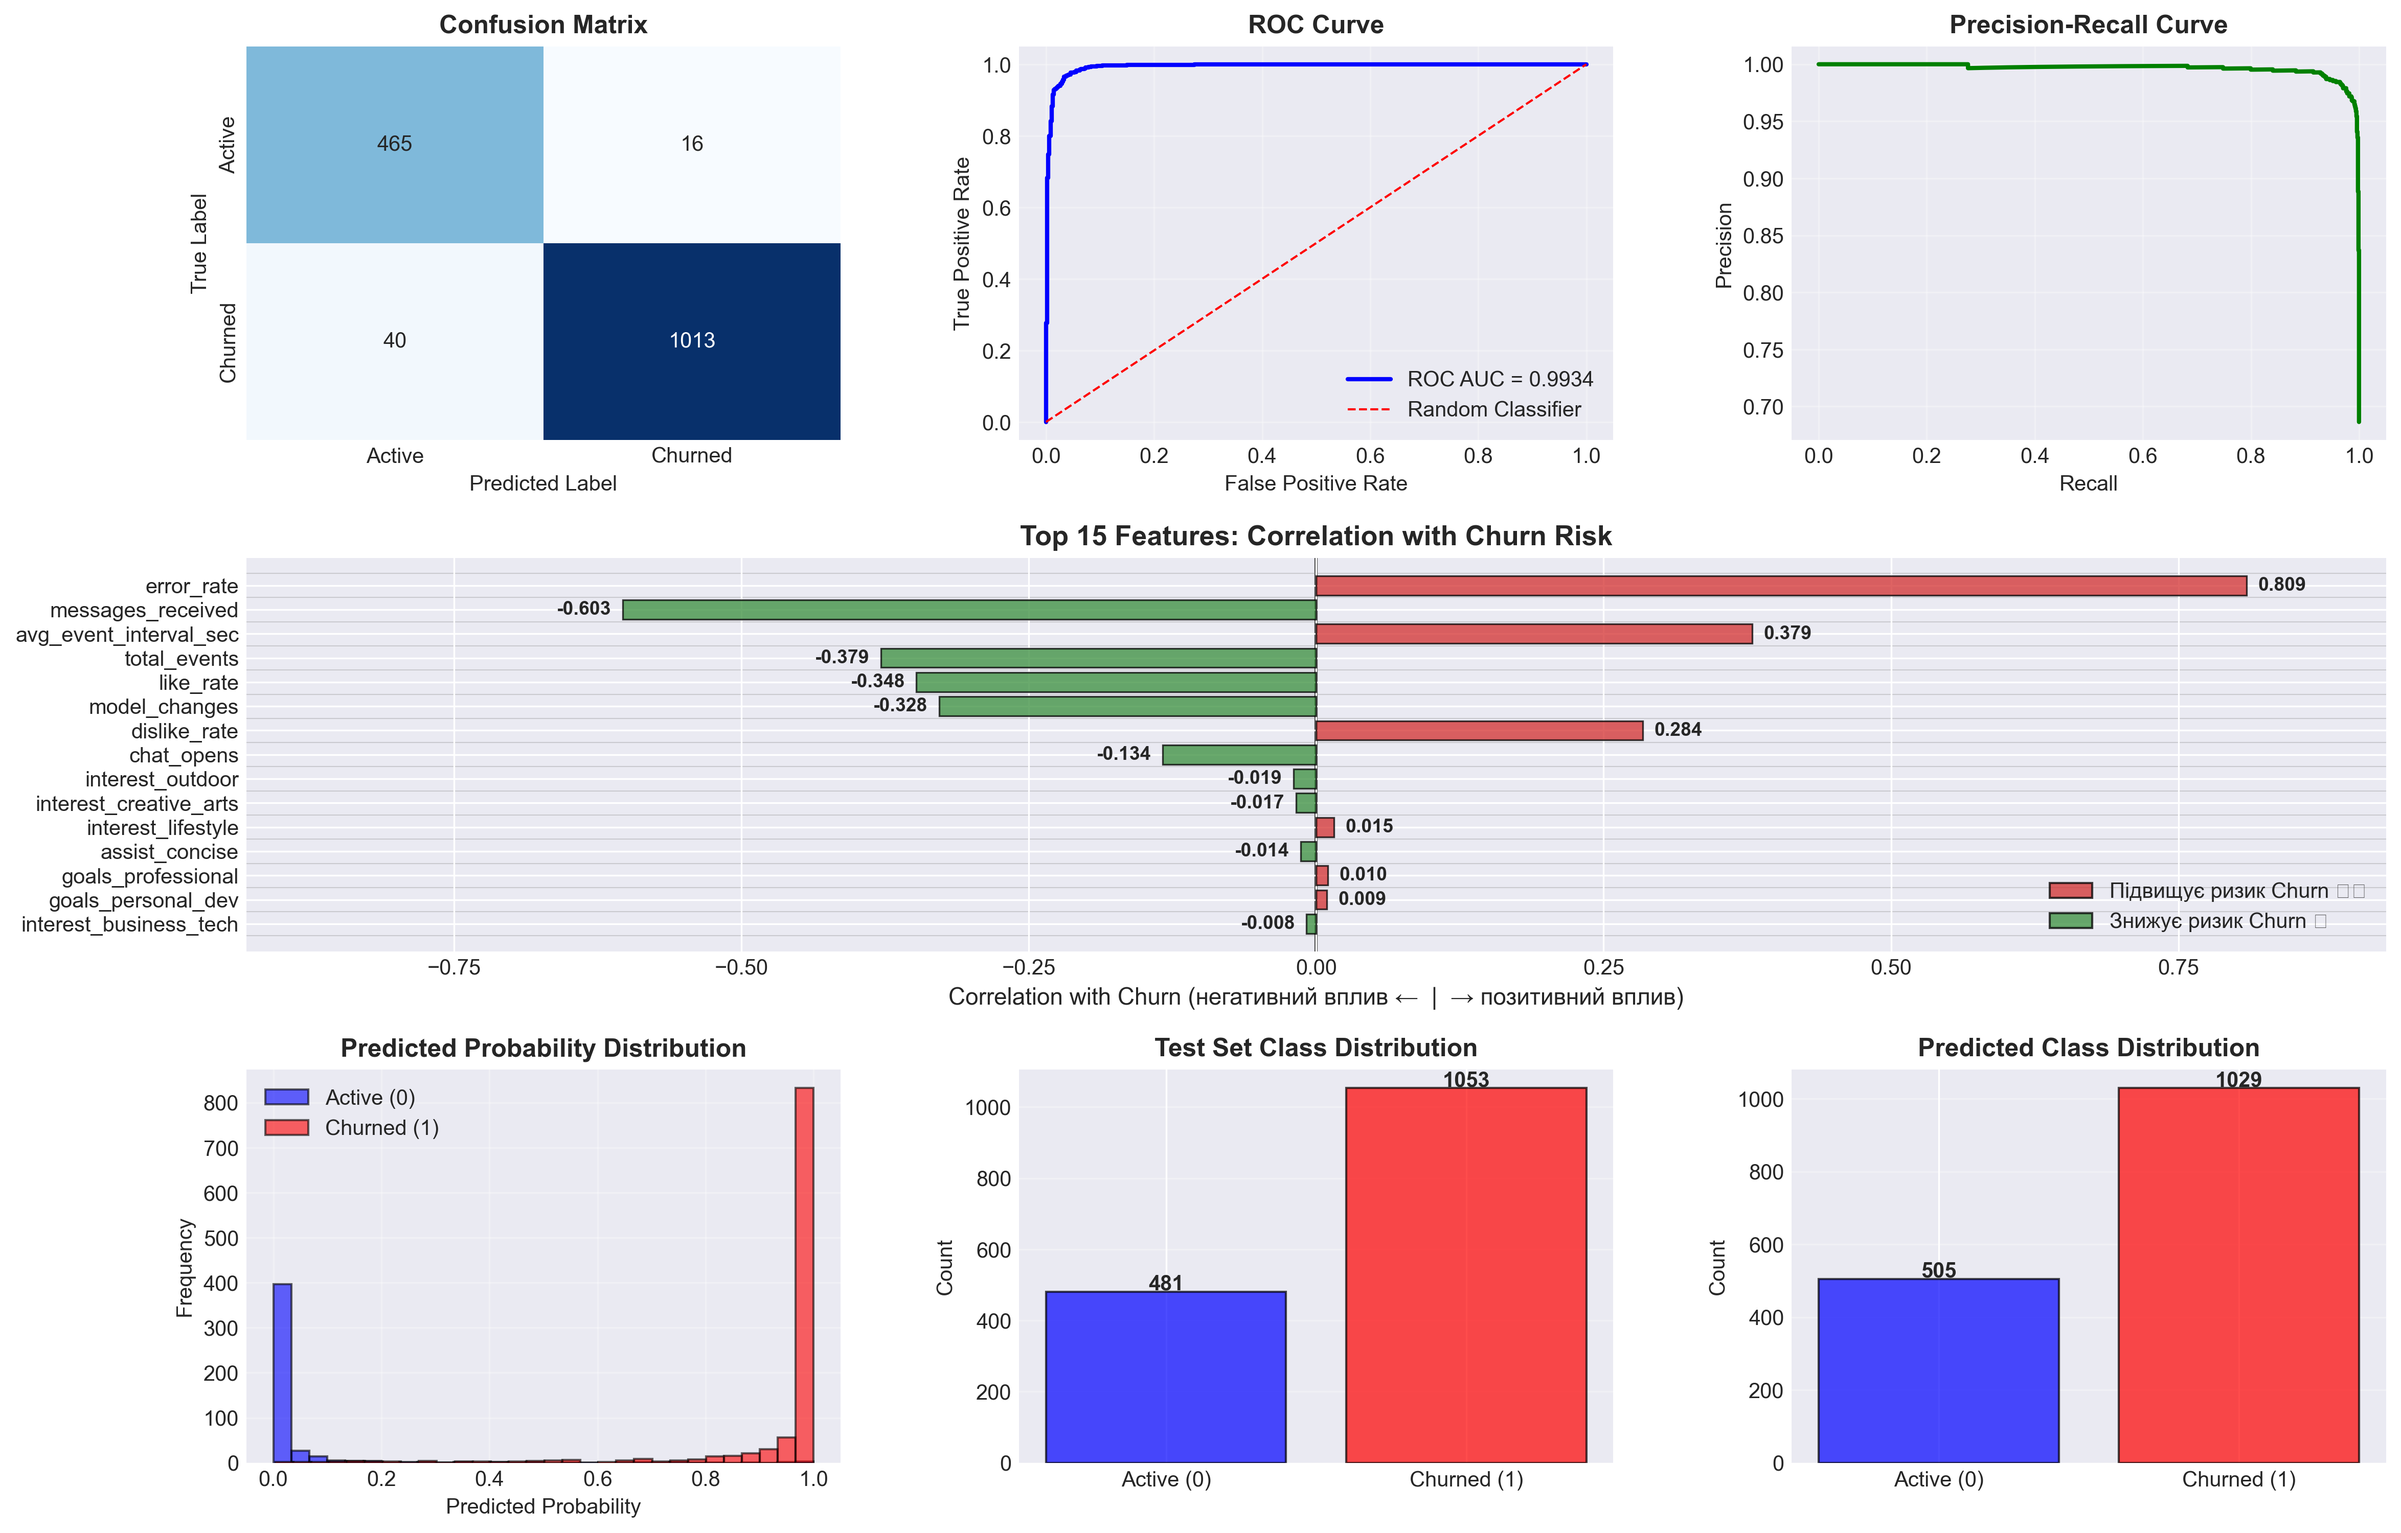
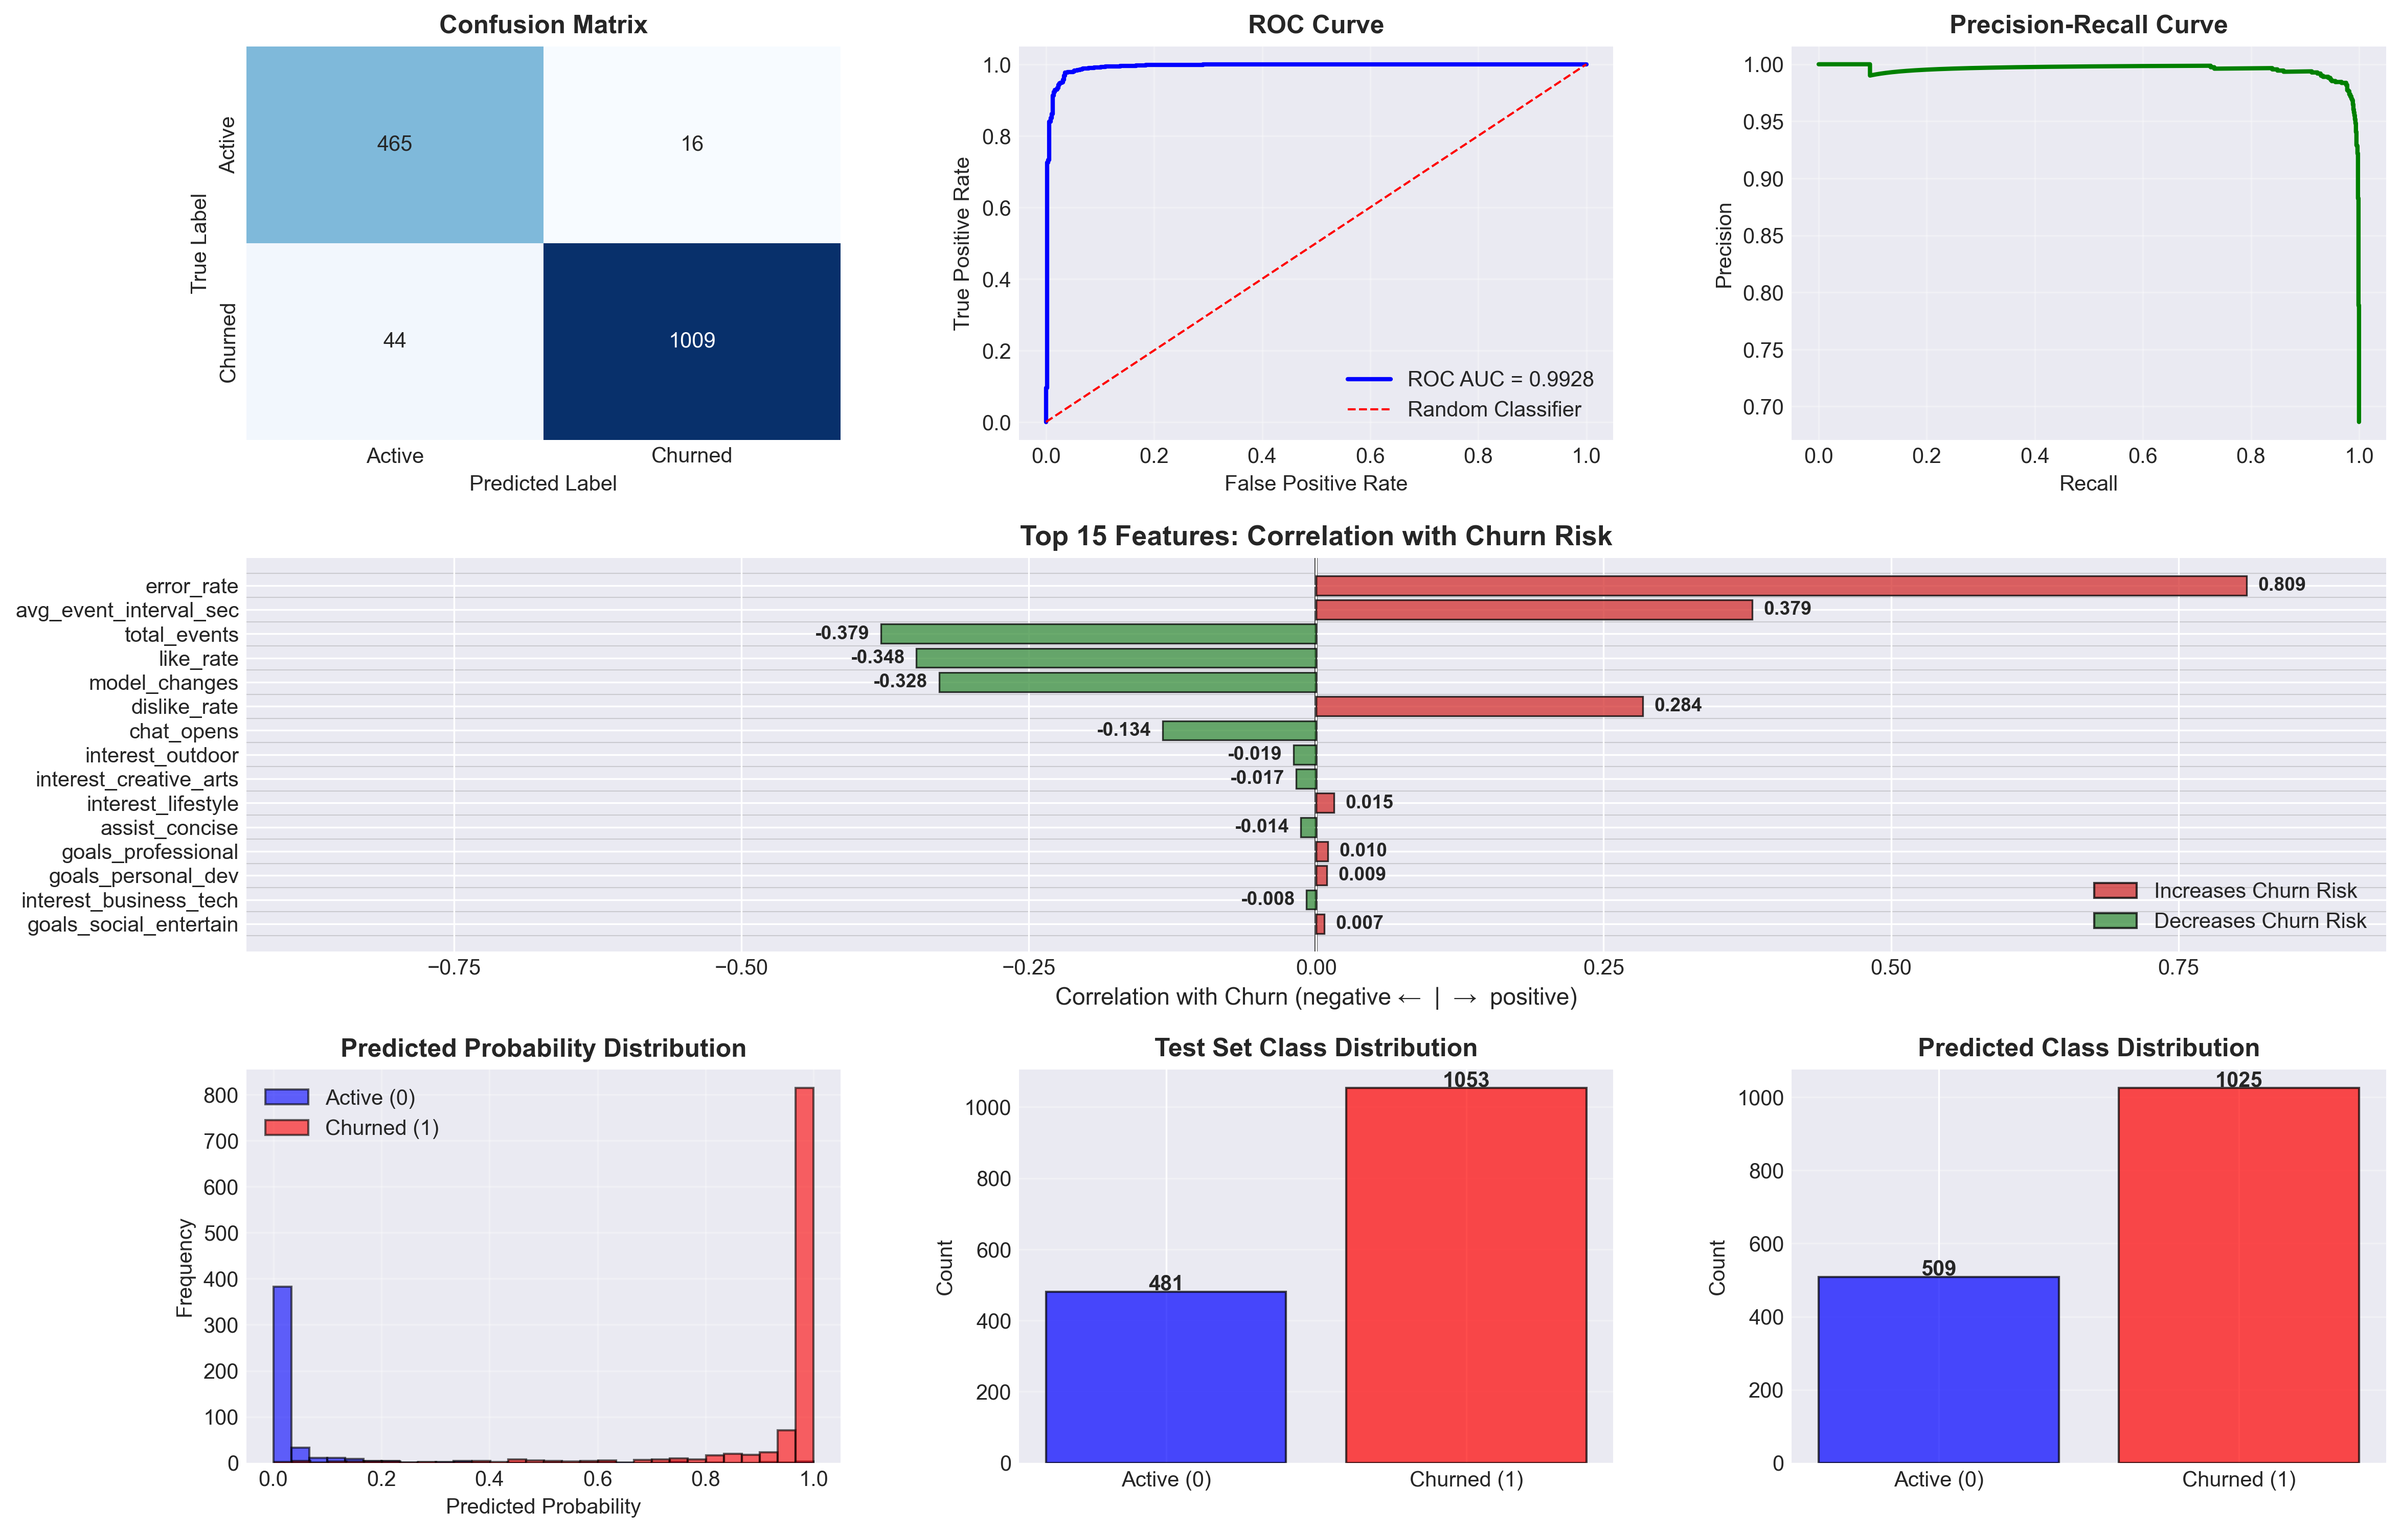
pisyapopa

diff --git a/prediction/ChurnPredictionModel.py b/prediction/ChurnPredictionModel.py
@@ -70,7 +70,8 @@ class ChurnPredictionModel:
 
             # Видалення колонки successful_purchase (більше не потрібна)
             self.df_processed.drop(columns=['successful_purchase'], inplace=True)
-            self.df_processed.drop(columns=['answer_errors'], inplace=True)
+            self.df_processed.drop(columns=['answer_errors', 'messages_received'], inplace=True)
+
             print(f"✓ Видалено колонку 'successful_purchase' (всі значення = 1)")
         else:
             print("⚠  Колонка 'successful_purchase' не знайдена, пропускаємо фільтрацію")
@@ -461,7 +462,7 @@ class ChurnPredictionModel:
         # Налаштування осей
         ax4.set_yticks(range(len(corr_df)))
         ax4.set_yticklabels(corr_df['feature'], fontsize=10)
-        ax4.set_xlabel('Correlation with Churn (негативний вплив ←  |  → позитивний вплив)', fontsize=11)
+        ax4.set_xlabel('Correlation with Churn (negative ←  |  →  positive)', fontsize=11)
         ax4.set_title('Top 15 Features: Correlation with Churn Risk', fontweight='bold', fontsize=13)
 
         # Вертикальна лінія на нулі (вирівняна по центру барів)
@@ -481,8 +482,8 @@ class ChurnPredictionModel:
         # Легенда
         from matplotlib.patches import Patch
         legend_elements = [
-            Patch(facecolor='#d32f2f', alpha=0.75, edgecolor='black', label='Підвищує ризик Churn ⚠'),
-            Patch(facecolor='#388e3c', alpha=0.75, edgecolor='black', label='Знижує ризик Churn ✓')
+            Patch(facecolor='#d32f2f', alpha=0.75, edgecolor='black', label='Increases Churn Risk'),
+            Patch(facecolor='#388e3c', alpha=0.75, edgecolor='black', label='Decreases Churn Risk')
         ]
         ax4.legend(handles=legend_elements, loc='lower right', fontsize=10)
 
